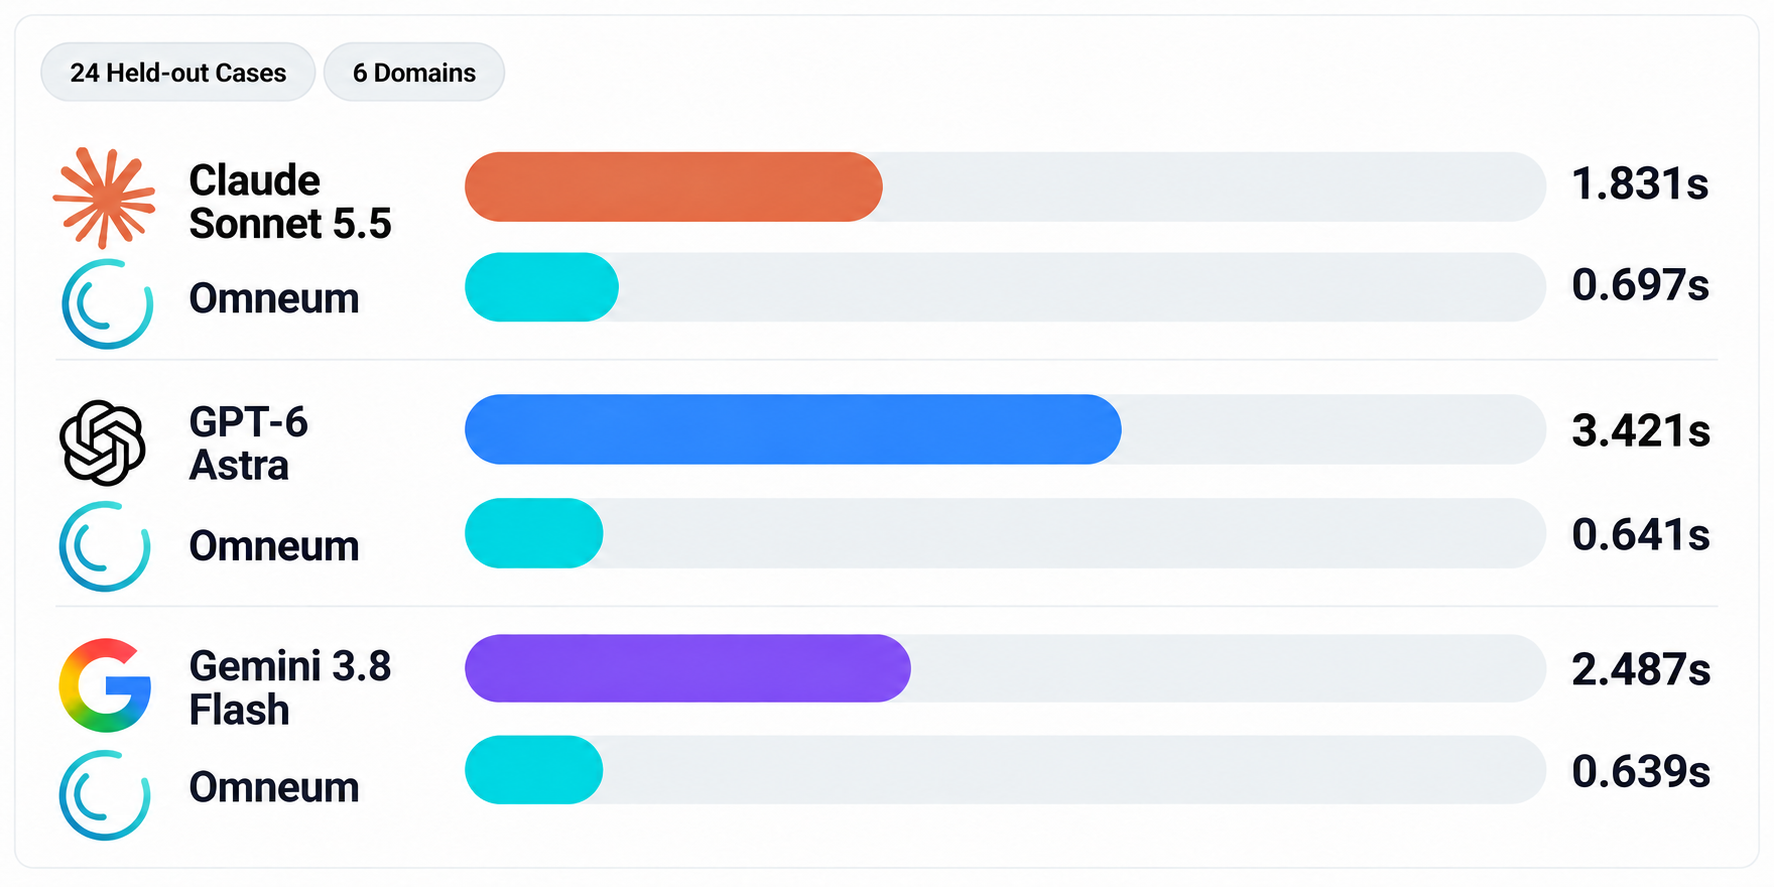
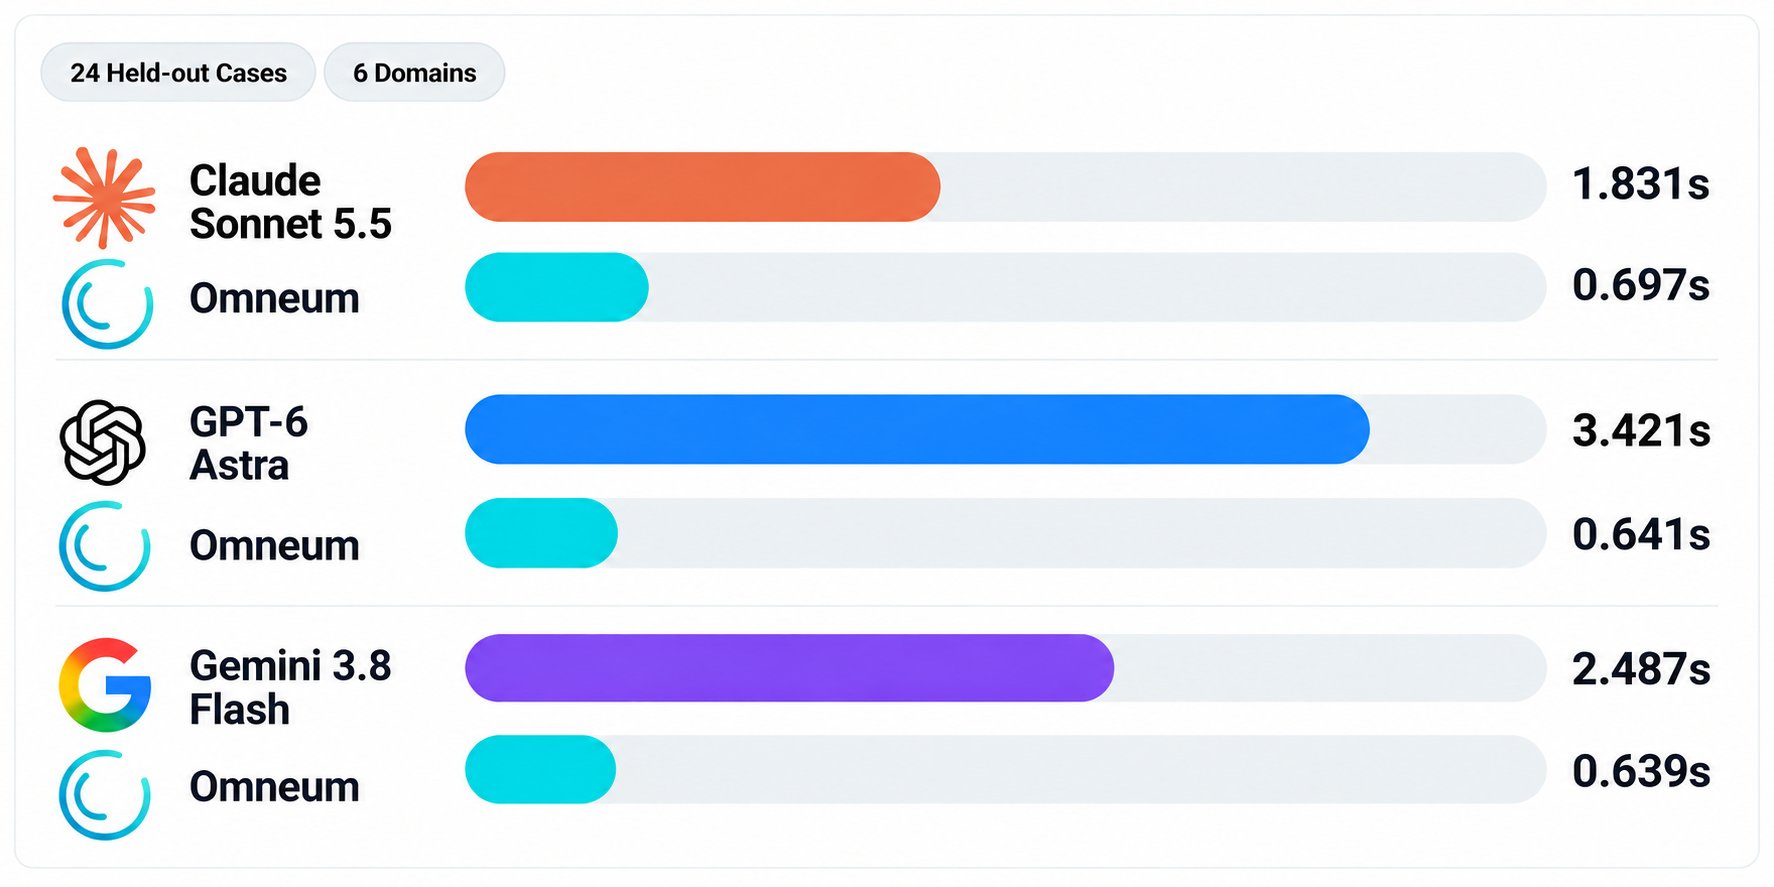
docs(benchmarks): update evaluation results and methodology

diff --git a/benchmarks/README.md b/benchmarks/README.md
@@ -14,7 +14,7 @@ Published comparisons:
 - [Frontier LLM Judges](leaderboard.md#frontier-llm-judges)
 - [Domain Evaluations](leaderboard.md#domain-evaluations)
 
-The leaderboard reports selection precision, recall, answer accuracy, latency, and downstream generator usage. In the recorded comparisons, Omneum improved selection precision and recall over standalone BGE and Cohere rerankers. Against frontier LLM judges, it achieved **2.63×–10.68× faster median selection**, without an additional frontier-model judge call. See the [leaderboard](leaderboard.md) for matched configurations and trade-offs.
+The leaderboard reports selection precision, recall, answer accuracy, latency, and downstream generator usage. In the recorded comparisons, Omneum improved selection precision and recall over standalone BGE and Cohere rerankers. Against frontier LLM judges, it achieved **2.63×–5.34× faster median selection**, without an additional frontier-model judge call. See the [leaderboard](leaderboard.md) for matched configurations and trade-offs.
 
 ## Quick Start
 
@@ -180,6 +180,8 @@ The held-out runner, canonical fixtures, recorded outputs, and publication dashb
 | Pair identity | Run, case, and trial |
 | Output | JSONL results, run summaries, public manifests |
 
+Gemini 3.8 Flash used explicit low thinking; Claude Sonnet 5.5 and GPT-6 Astra used provider defaults without explicit reasoning-effort overrides.
+
 The preserved experimental plan permits selection budgets of 2–4; the released case fixtures use 2–3.
 
 Experiments were executed in separate arm blocks rather than interleaved. Published comparisons use matched configurations, but the experiments are not pooled into a single trial population.
@@ -306,7 +308,7 @@ benchmarks/context_evaluation/heldout/results/
 │   ├── manifest.public-v1.json
 │   ├── results.jsonl
 │   └── summary.json
-├── bge-google-vs-bge-omneum-20261008/
+├── bge-google-low-vs-bge-omneum-20261008/
 │   ├── manifest.public-v1.json
 │   ├── results.jsonl
 │   └── summary.json

diff --git a/benchmarks/coding.md b/benchmarks/coding.md
@@ -24,12 +24,6 @@ Run from the Omneum repository root.
 
 No provider calls. These commands verify the frozen dataset, benchmark tests, and saved dashboard; they do not generate new model responses.
 
-Latest verified test result:
-
-```text
-572 passed, 15 skipped
-```
-
 ## Cases
 
 | Case | Candidates | Budget | Expected behavior |
@@ -279,13 +273,9 @@ Three candidate sources repeat the same outdated recommendation. Their apparent 
 | BGE + Gemini Judge | 10 | Same | 100% | 60% | 10/10 unscored | 2.726s |
 | **BGE + Omneum** | **10** | Same | **100%** | **60%** | 10/10 unscored | **0.593s** |
 | Cohere + Claude Judge | 1 | `release_notes`, `pull_request`, `package_docs` | 100% | 60% | 1/1 unscored | 2.209s |
-| Cohere + Omneum | 1 | `release_notes`, `pull_request`, `package_docs` | 100% | 60% | 1/1 unscored | — |
+| Cohere + Omneum | 1 | `release_notes`, `pull_request`, `package_docs` | 100% | 60% | 1/1 unscored | 1.285s |
 
 **Result:** All recorded configurations selected current-fix evidence rather than the repeated obsolete workaround. Omneum matched the BGE + judge selection quality with lower selection latency.
-
-The Cohere + Omneum latency and complete answer-status row must be read from its saved result; the supplied report excerpt ends before those fields.
-
-Gemini figures use the completed low-thinking replay; Gemini speedups use its unchanged historical Omneum comparator. Other Omneum rows retain their original paired run. Gemini E2E sums combine original selection and later recovered generation timings.
 
 ## Inspect Recorded Runs
 

diff --git a/benchmarks/multi-agent.md b/benchmarks/multi-agent.md
@@ -24,12 +24,6 @@ Run from the Omneum repository root.
 
 No provider calls. These commands validate the frozen dataset, execute offline tests, and check published metrics against saved artifacts. They do not generate new model responses.
 
-Latest verified test result:
-
-```text
-572 passed, 15 skipped
-```
-
 ## Cases
 
 | Case | Candidates | Budget | Expected behavior |
@@ -424,8 +418,6 @@ Gemini selected the analyst agent's outdated estimate in seven trials, the summa
 All configurations achieved the same selection precision, recall, and recorded answer correctness.
 
 Omneum did not select the relevant verifier agent and retained the cached planned date. The result therefore does not demonstrate complete removal of repeated or stale context.
-
-Gemini figures use the completed low-thinking replay; Gemini speedups use its unchanged historical Omneum comparator. Other Omneum rows retain their original paired run. Gemini E2E sums combine original selection and later recovered generation timings.
 
 ## Inspect Recorded Runs
 

diff --git a/benchmarks/enterprise-rag.md b/benchmarks/enterprise-rag.md
@@ -24,12 +24,6 @@ Run from the Omneum repository root.
 
 No provider calls. These commands validate the frozen dataset, execute offline tests, and check published metrics against saved artifacts. They do not generate new model responses.
 
-Latest verified test result:
-
-```text
-572 passed, 15 skipped
-```
-
 ## Cases
 
 | Case | Candidates | Budget | Expected behavior |
@@ -391,8 +385,6 @@ policy_changelog
 Omneum preferred the current policy, Confluence benefits page, and announcement. The LLM judges generally preferred the current policy and HR system record.
 
 Both selections satisfy the relevance labels. Omneum recorded lower selection latency without improving scored selection quality.
-
-Gemini figures use the completed low-thinking replay; Gemini speedups use its unchanged historical Omneum comparator. Other Omneum rows retain their original paired run. Gemini E2E sums combine original selection and later recovered generation timings.
 
 ## Inspect Recorded Runs
 

diff --git a/benchmarks/research.md b/benchmarks/research.md
@@ -542,8 +542,6 @@ With Cohere, the Claude judge selected a better evidence set.
 
 The case establishes that syndicated-reporting dependencies remain challenging for all evaluated BGE configurations. It does not demonstrate superior dependency handling by Omneum, and it should not be represented as a successful elimination of copied misinformation by the LLM judges either.
 
-Gemini figures use the completed low-thinking replay; Gemini speedups use its unchanged historical Omneum comparator. Other Omneum rows retain their original paired run. Gemini E2E sums combine original selection and later recovered generation timings.
-
 ## Inspect Recorded Runs
 
 Authoritative run directories:

diff --git a/benchmarks/support.md b/benchmarks/support.md
@@ -434,8 +434,6 @@ The principal measured difference was selection latency.
 
 The fixture demonstrates successful selection of current operational evidence in the presence of circularly referenced recovery instructions.
 
-Gemini figures use the completed low-thinking replay; Gemini speedups use its unchanged historical Omneum comparator. Other Omneum rows retain their original paired run. Gemini E2E sums combine original selection and later recovered generation timings.
-
 ## Inspect Recorded Runs
 
 The case fixtures and preserved execution artifacts are maintained separately.

diff --git a/benchmarks/analytics.md b/benchmarks/analytics.md
@@ -468,8 +468,6 @@ Every downstream answer returned 1,284.
 
 **Result:** Omneum matched the frontier LLM judges' selection quality and downstream answer correctness. Its 0.662-second selection p50 was approximately 5.5× lower than GPT-6 Astra and 5.9× lower than Gemini.
 
-Gemini figures use the completed low-thinking replay; Gemini speedups use its unchanged historical Omneum comparator. Other Omneum rows retain their original paired run. Gemini E2E sums combine original selection and later recovered generation timings.
-
 ## Artifacts
 
 ### Case Fixtures
